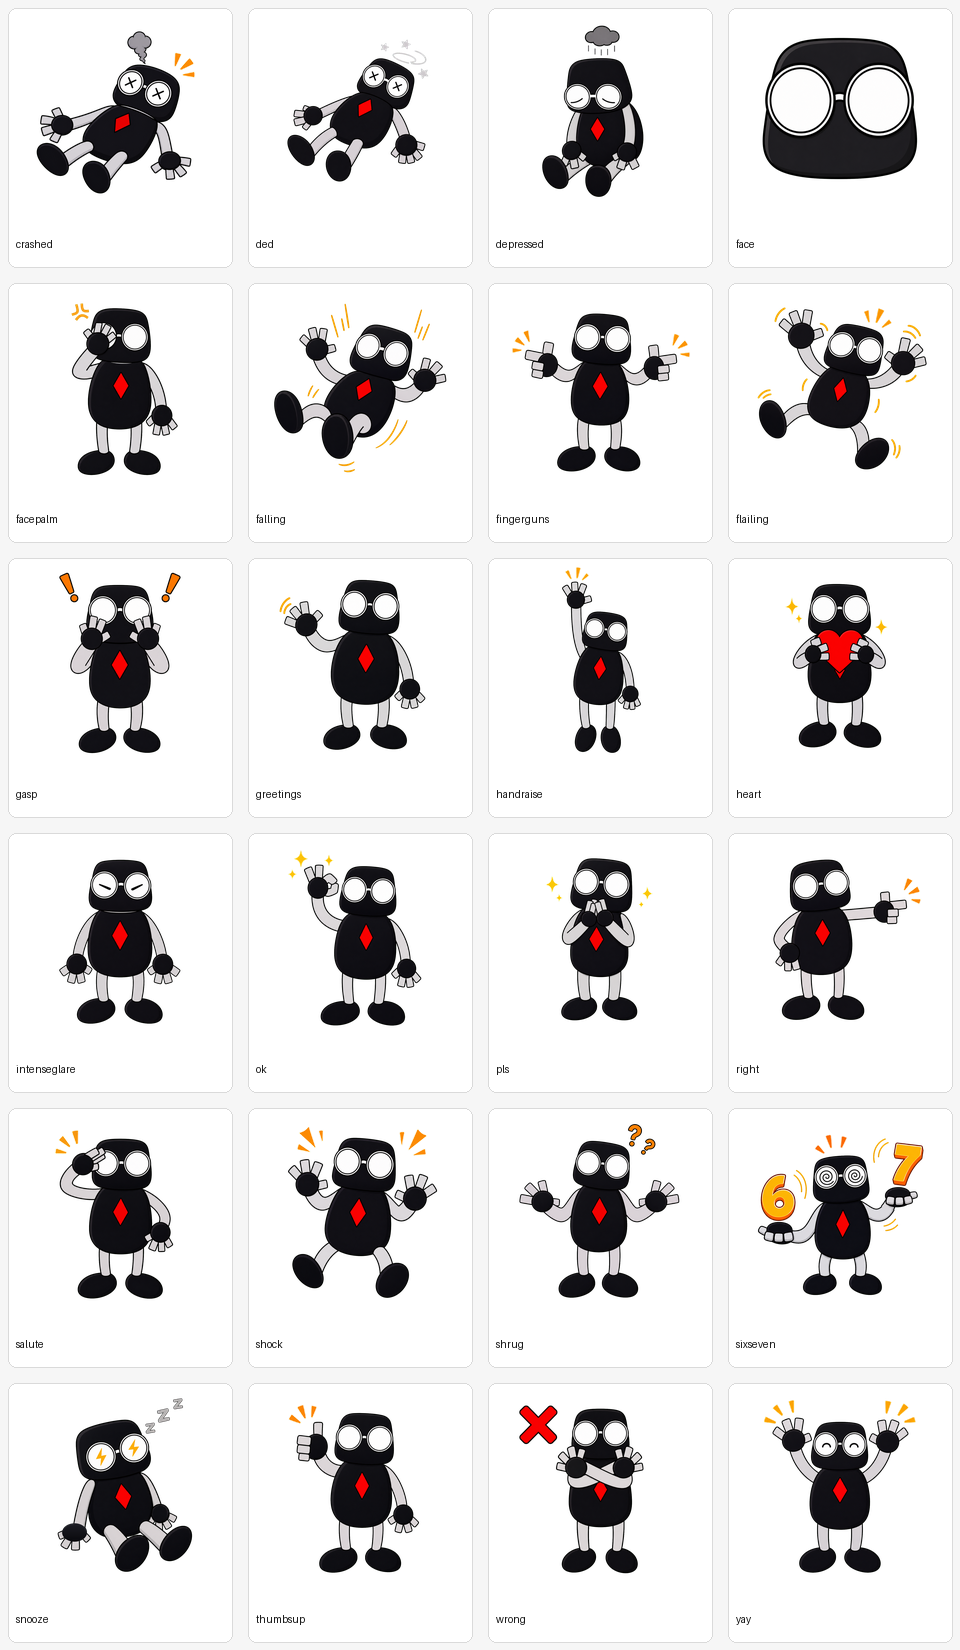
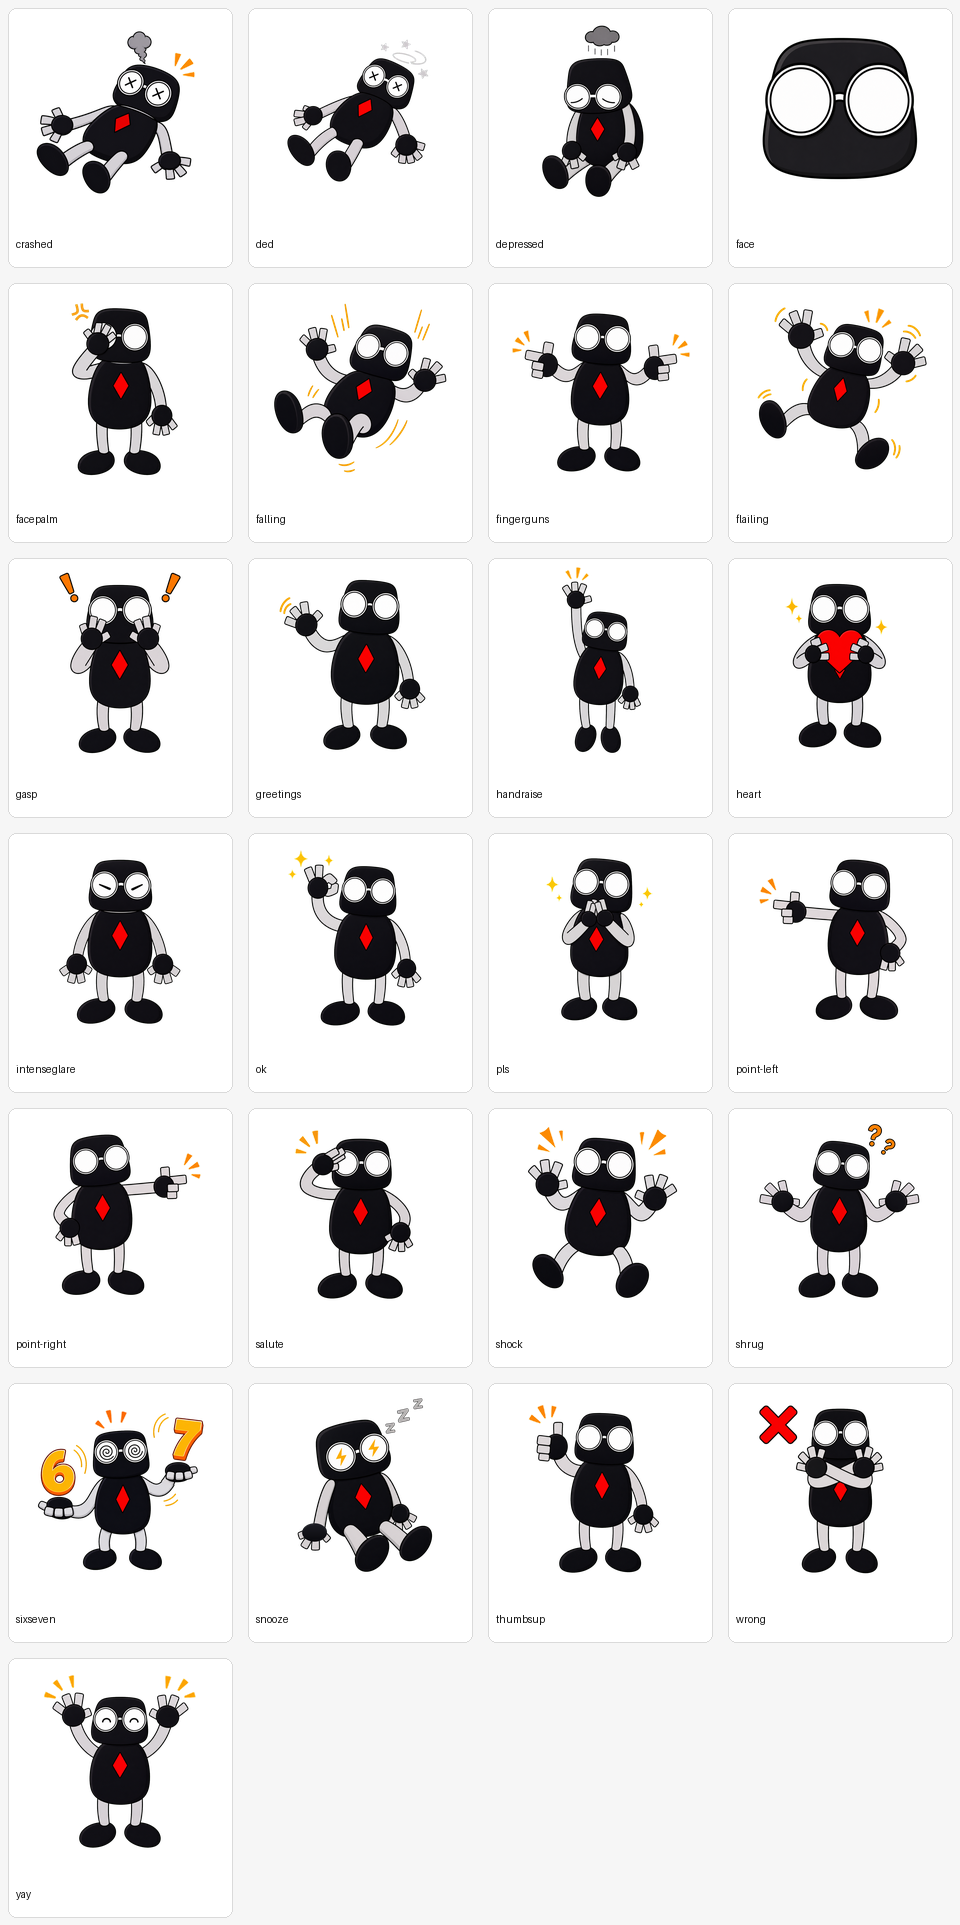
feat: simplify sticker library and add pointing stickers

diff --git a/site/styles.css b/site/styles.css
@@ -78,129 +78,22 @@ label {
   text-decoration: none;
 }
 
-.brand-mark {
-  position: relative;
-  display: inline-flex;
-  align-items: center;
-  justify-content: center;
-  gap: 3px;
-  width: 35px;
-  height: 28px;
-  background: var(--ink);
-  border-radius: 7px 7px 10px 10px;
-}
-
-.brand-mark::after {
-  position: absolute;
-  bottom: -3px;
-  left: 12%;
-  width: 76%;
-  height: 1px;
-  content: "";
-  background: #e1e1e1;
-}
-
-.brand-mark span {
-  width: 12px;
-  height: 9px;
-  background: var(--white);
-  border-radius: 5px;
-}
-
-.site-label,
-.eyebrow,
-.toolbar-kicker {
-  margin: 0;
-  color: var(--muted);
-  font-size: 0.72rem;
-  font-weight: 750;
-  letter-spacing: 0.12em;
-  text-transform: uppercase;
-}
-
-.collection-intro {
-  position: relative;
-  display: grid;
-  grid-template-columns: minmax(0, 1fr) minmax(260px, 38vw);
-  min-height: min(610px, calc(100svh - 76px));
-  padding: clamp(3.5rem, 8vw, 8rem) 4vw clamp(2rem, 5vw, 4rem);
-  overflow: hidden;
-  border-bottom: 1px solid var(--line);
-}
-
-.collection-intro::before {
-  position: absolute;
-  inset: 0;
-  z-index: -1;
-  content: "";
-  background-image: radial-gradient(rgb(17 17 17 / 9%) 0.8px, transparent 0.8px);
-  background-size: 22px 22px;
-  mask-image: linear-gradient(to right, black, transparent 58%);
-}
-
-.intro-copy {
-  z-index: 1;
-  align-self: center;
-  max-width: 820px;
-  animation: intro-copy 700ms cubic-bezier(0.22, 1, 0.36, 1) both;
-}
-
-.eyebrow {
-  margin-bottom: 1.5rem;
-  color: var(--accent);
-}
-
-h1 {
-  max-width: 820px;
-  margin: 0;
-  font-size: clamp(3.3rem, 7.6vw, 7.4rem);
-  font-weight: 850;
-  letter-spacing: -0.072em;
-  line-height: 0.9;
-}
-
-.lede {
-  max-width: 510px;
-  margin: 2rem 0 0;
-  color: var(--muted);
-  font-size: clamp(1rem, 1.5vw, 1.25rem);
-  line-height: 1.55;
-}
-
-.intro-sticker {
-  align-self: center;
-  justify-self: center;
-  width: min(42vw, 600px);
-  height: min(42vw, 600px);
+.brand-face {
+  width: 42px;
+  height: 42px;
   object-fit: contain;
-  filter: drop-shadow(0 32px 28px rgb(0 0 0 / 15%));
-  transform: rotate(4deg);
-  animation: intro-sticker 900ms 120ms cubic-bezier(0.22, 1, 0.36, 1) both;
+  filter: drop-shadow(0 3px 3px rgb(0 0 0 / 10%));
 }
 
 .collection {
-  padding: clamp(3.5rem, 7vw, 7rem) 4vw 11rem;
-}
-
-.collection-toolbar {
-  display: flex;
-  align-items: end;
-  justify-content: space-between;
-  margin-bottom: clamp(2rem, 4vw, 3.5rem);
-}
-
-.collection-toolbar h2 {
-  margin: 0.4rem 0 0;
-  font-size: clamp(2rem, 4vw, 4rem);
-  letter-spacing: -0.055em;
-  line-height: 1;
+  padding: clamp(1rem, 2vw, 2rem) 4vw 11rem;
 }
 
 .select-all {
   display: flex;
   align-items: center;
   gap: 0.7rem;
-  padding: 0.8rem 0;
+  padding: 0.6rem 0;
   font-size: 0.9rem;
   font-weight: 700;
   cursor: pointer;
@@ -554,14 +447,6 @@ h1 {
   border: 0;
 }
 
-@keyframes intro-copy {
-  from { opacity: 0; transform: translateY(24px); }
-}
-
-@keyframes intro-sticker {
-  from { opacity: 0; transform: translateY(30px) rotate(10deg) scale(0.92); }
-}
-
 @keyframes item-in {
   to { opacity: 1; transform: translateY(0); }
 }
@@ -575,10 +460,6 @@ h1 {
 }
 
 @media (max-width: 980px) {
-  .collection-intro {
-    grid-template-columns: minmax(0, 1fr) minmax(220px, 34vw);
-  }
-
   .sticker-grid {
     grid-template-columns: repeat(3, minmax(0, 1fr));
   }
@@ -590,40 +471,13 @@ h1 {
     padding: 0 1rem;
   }
 
-  .site-label {
-    display: none;
-  }
-
-  .collection-intro {
-    display: block;
-    min-height: 570px;
-    padding: 4.2rem 1rem 2rem;
-  }
-
-  .collection-intro::before {
-    mask-image: linear-gradient(to bottom, black, transparent 70%);
-  }
-
-  h1 {
-    max-width: 540px;
-    font-size: clamp(3.2rem, 15.5vw, 5.3rem);
-  }
-
-  .lede {
-    max-width: 340px;
-    margin-top: 1.4rem;
-  }
-
-  .intro-sticker {
-    position: absolute;
-    right: 0.5rem;
-    bottom: 0;
-    width: min(60vw, 350px);
-    height: min(60vw, 350px);
+  .brand-face {
+    width: 38px;
+    height: 38px;
   }
 
   .collection {
-    padding: 3.5rem 1rem 9rem;
+    padding: 1rem 1rem 9rem;
   }
 
   .sticker-grid {
@@ -687,10 +541,6 @@ h1 {
 }
 
 @media (max-width: 390px) {
-  .collection-toolbar {
-    align-items: start;
-  }
-
   .select-all {
     padding-top: 0;
   }

diff --git a/site/index.html b/site/index.html
@@ -11,55 +11,31 @@
     <title>T Krobot Stickers</title>
     <link rel="icon" type="image/png" href="/stickers/face.png" />
     <link rel="preload" href="/stickers/face.png" as="image" />
-    <link rel="stylesheet" href="/styles.css" />
-    <script src="/app.js" defer></script>
+    <link rel="stylesheet" href="/styles.css?v=20260716-2" />
+    <script src="/app.js?v=20260716-2" defer></script>
   </head>
   <body>
     <a class="skip-link" href="#sticker-grid">Skip to stickers</a>
 
     <header class="site-header">
       <a class="brand" href="/" aria-label="T Krobot Stickers home">
-        <span class="brand-mark" aria-hidden="true">
-          <span></span><span></span>
-        </span>
+        <img
+          class="brand-face"
+          src="/stickers/face.png"
+          alt=""
+          width="42"
+          height="42"
+        />
         <span>T Krobot</span>
       </a>
-      <p class="site-label">Sticker library</p>
+      <label class="select-all">
+        <input id="select-all" type="checkbox" />
+        <span>Select all</span>
+      </label>
     </header>
 
     <main>
-      <section class="collection-intro" aria-labelledby="page-title">
-        <div class="intro-copy">
-          <p class="eyebrow">Tinkertanker mascot pack</p>
-          <h1 id="page-title">Stickers for every kind of day.</h1>
-          <p class="lede">
-            Transparent, full-resolution PNGs. Pick one or select a handful.
-          </p>
-        </div>
-        <img
-          class="intro-sticker"
-          src="/stickers/face.png"
-          alt="T Krobot face sticker"
-          width="1254"
-          height="1254"
-        />
-      </section>
-
-      <section class="collection" aria-labelledby="collection-heading">
-        <div class="collection-toolbar">
-          <div>
-            <p class="toolbar-kicker">The collection</p>
-            <h2 id="collection-heading">
-              <span id="sticker-count">24</span> stickers
-            </h2>
-          </div>
-
-          <label class="select-all">
-            <input id="select-all" type="checkbox" />
-            <span>Select all</span>
-          </label>
-        </div>
-
+      <section class="collection" aria-label="T Krobot sticker collection">
         <div id="sticker-grid" class="sticker-grid" aria-live="polite"></div>
 
         <p id="load-error" class="load-error" hidden>

diff --git a/site/app.js b/site/app.js
@@ -6,7 +6,6 @@ const selectAll = document.querySelector("#select-all");
 const clearSelection = document.querySelector("#clear-selection");
 const downloadSelection = document.querySelector("#download-selection");
 const downloadNotice = document.querySelector("#download-notice");
-const stickerCount = document.querySelector("#sticker-count");
 const loadError = document.querySelector("#load-error");
 
 const selected = new Set();
@@ -143,7 +142,6 @@ fetch("/stickers.json")
   })
   .then((data) => {
     stickers = data.items;
-    stickerCount.textContent = stickers.length;
     stickers.forEach(renderSticker);
   })
   .catch((error) => {

diff --git a/tools/scripts/build_site_manifest.py b/tools/scripts/build_site_manifest.py
@@ -5,6 +5,7 @@ from __future__ import annotations
 
 import json
 import subprocess
+from datetime import datetime, timezone
 from pathlib import Path
 
 
@@ -22,9 +23,14 @@ def last_updated(path: str) -> str:
         text=True,
     )
     date = result.stdout.strip()
-    if not date:
-        raise RuntimeError(f"No Git history found for {path}")
-    return date
+    if date:
+        return date
+
+    source = ROOT / path
+    if not source.exists():
+        raise RuntimeError(f"No Git history or source file found for {path}")
+
+    return datetime.fromtimestamp(source.stat().st_mtime, timezone.utc).date().isoformat()
 
 
 def main() -> None:

diff --git a/stickers/README.md b/stickers/README.md
@@ -2,7 +2,7 @@
 
 Use these transparent PNGs as the current locked rectangular-finger T Krobot sticker set.
 
-- Count: 24 stickers.
+- Count: 25 stickers.
 - Source slugs use clean names for the current pack; `stickers/manifest.json` maps them back to the original scrape names and documents project-native additions.
 - Manifest: `stickers/manifest.json`.
 - Chroma-key sources live in `archive/chroma-key-sources/`.

diff --git a/README.md b/README.md
@@ -22,7 +22,8 @@ All definitive rectangular-finger stickers are in `stickers/` as 1254 x 1254 tra
 - `intenseglare.png`
 - `ok.png`
 - `pls.png`
-- `right.png`
+- `point-left.png`
+- `point-right.png`
 - `salute.png`
 - `shock.png`
 - `shrug.png`
